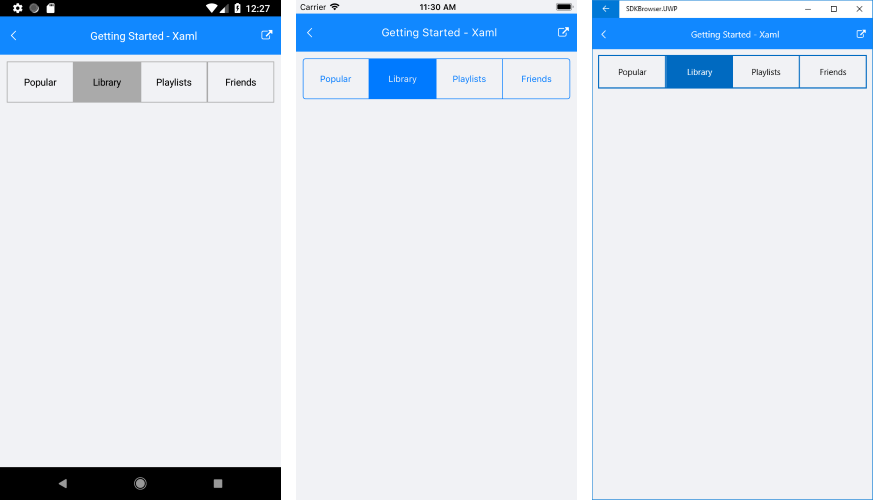
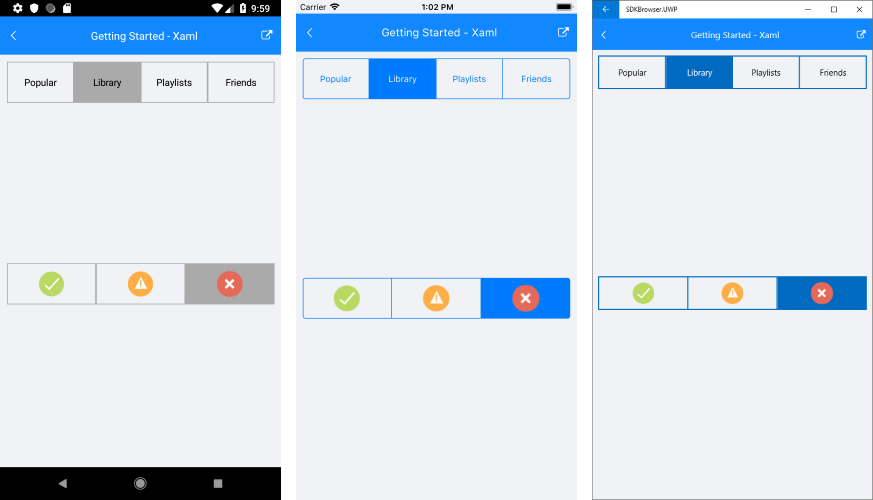
Updated Segmented Getting Started

diff --git a/controls/segmentedcontrol/segmentedcontrol-getting-started.md b/controls/segmentedcontrol/segmentedcontrol-getting-started.md
@@ -37,6 +37,8 @@ If your app is setup, you are ready to add a **RadSegmentedControl** control.
 
 RadSegmentedControl allows you to work with two types of data - string and image. You can use the **ItemsSource** property of RadSegmentedControl to provide **IEnumerable** collection of strings or image sources. The control will display a segment for each item in the items source. 
 
+### Populate with string data
+
 Here is an example how to set the control's ItemsSource property and populate it with some data.
 
 <snippet id='segmentcontrol-gettingstarted-xaml'/>
@@ -46,6 +48,11 @@ You also have to add the following namespace:
 
 <snippet id='xmlns-telerikinput'/>
 <snippet id='ns-telerikinput'/>
+
+### Populate with image sources
+
+<snippet id='segmentcontrol-gettingstarted-images-xaml' />
+<snippet id='segmentcontrol-gettingstarted-images-csharp' />
 
 This is the result:
 

diff --git a/controls/busyindicator/howto/busyindicator-integrate-with-listview.md b/controls/busyindicator/howto/busyindicator-integrate-with-listview.md
@@ -35,8 +35,6 @@ The image below shows the result:
 
 ![BusyIndicator with ListView](../images/busyindicator-withlistview.png)
 
->important А the Calendar &amp; Scheduling/Features folder of the [SDK Samples Browser application]({%slug developer-focused-examples%}).
-
 >important [SDK Browser application](https://docs.telerik.com/devtools/xamarin/sdk-browser-overview#sdk-browser-application) contains a sample ListView Integration example. You can find it in the **BusyIndicator/HowTo** folder.
 
 
